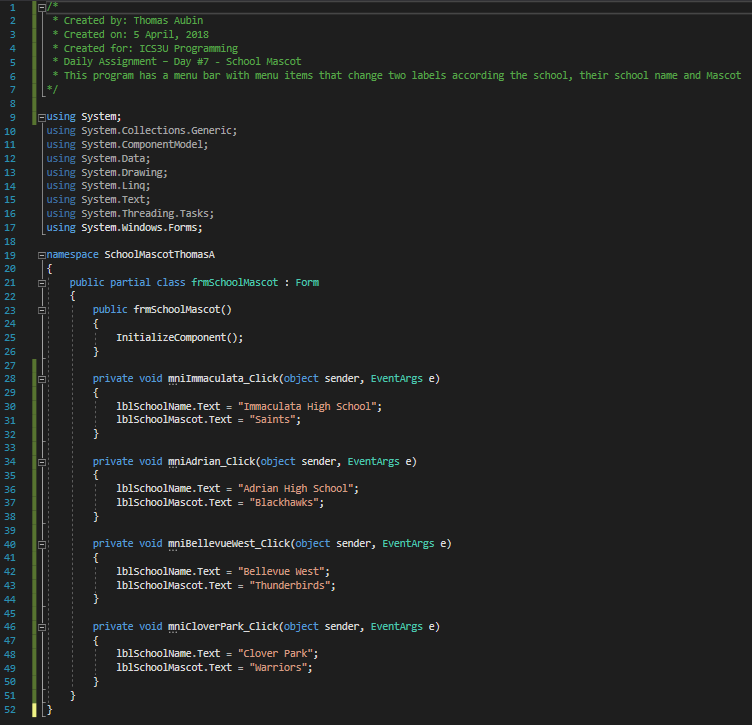
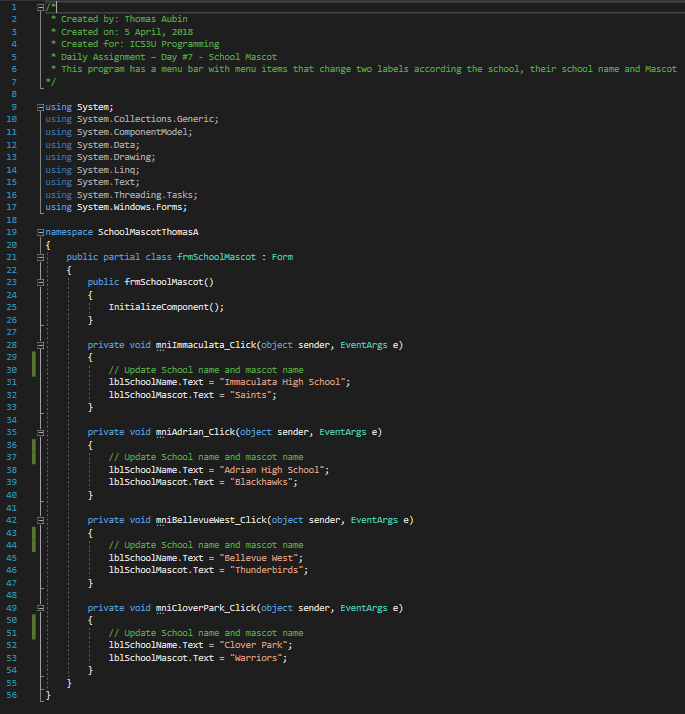
Added Comments

Changed region(s): [[0.0, 0.0, 1.0, 0.986], [0.1226, 0.9244, 0.1533, 0.9552]]

diff --git a/SchoolMascotThomasA/SchoolMascotForm.cs b/SchoolMascotThomasA/SchoolMascotForm.cs
@@ -27,24 +27,28 @@ namespace SchoolMascotThomasA
 
         private void mniImmaculata_Click(object sender, EventArgs e)
         {
+            // Update School name and mascot name
             lblSchoolName.Text = "Immaculata High School";
             lblSchoolMascot.Text = "Saints";
         }
 
         private void mniAdrian_Click(object sender, EventArgs e)
         {
+            // Update School name and mascot name
             lblSchoolName.Text = "Adrian High School";
             lblSchoolMascot.Text = "Blackhawks";
         }
 
         private void mniBellevueWest_Click(object sender, EventArgs e)
         {
+            // Update School name and mascot name
             lblSchoolName.Text = "Bellevue West";
             lblSchoolMascot.Text = "Thunderbirds";
         }
 
         private void mniCloverPark_Click(object sender, EventArgs e)
         {
+            // Update School name and mascot name
             lblSchoolName.Text = "Clover Park";
             lblSchoolMascot.Text = "Warriors";
         }
